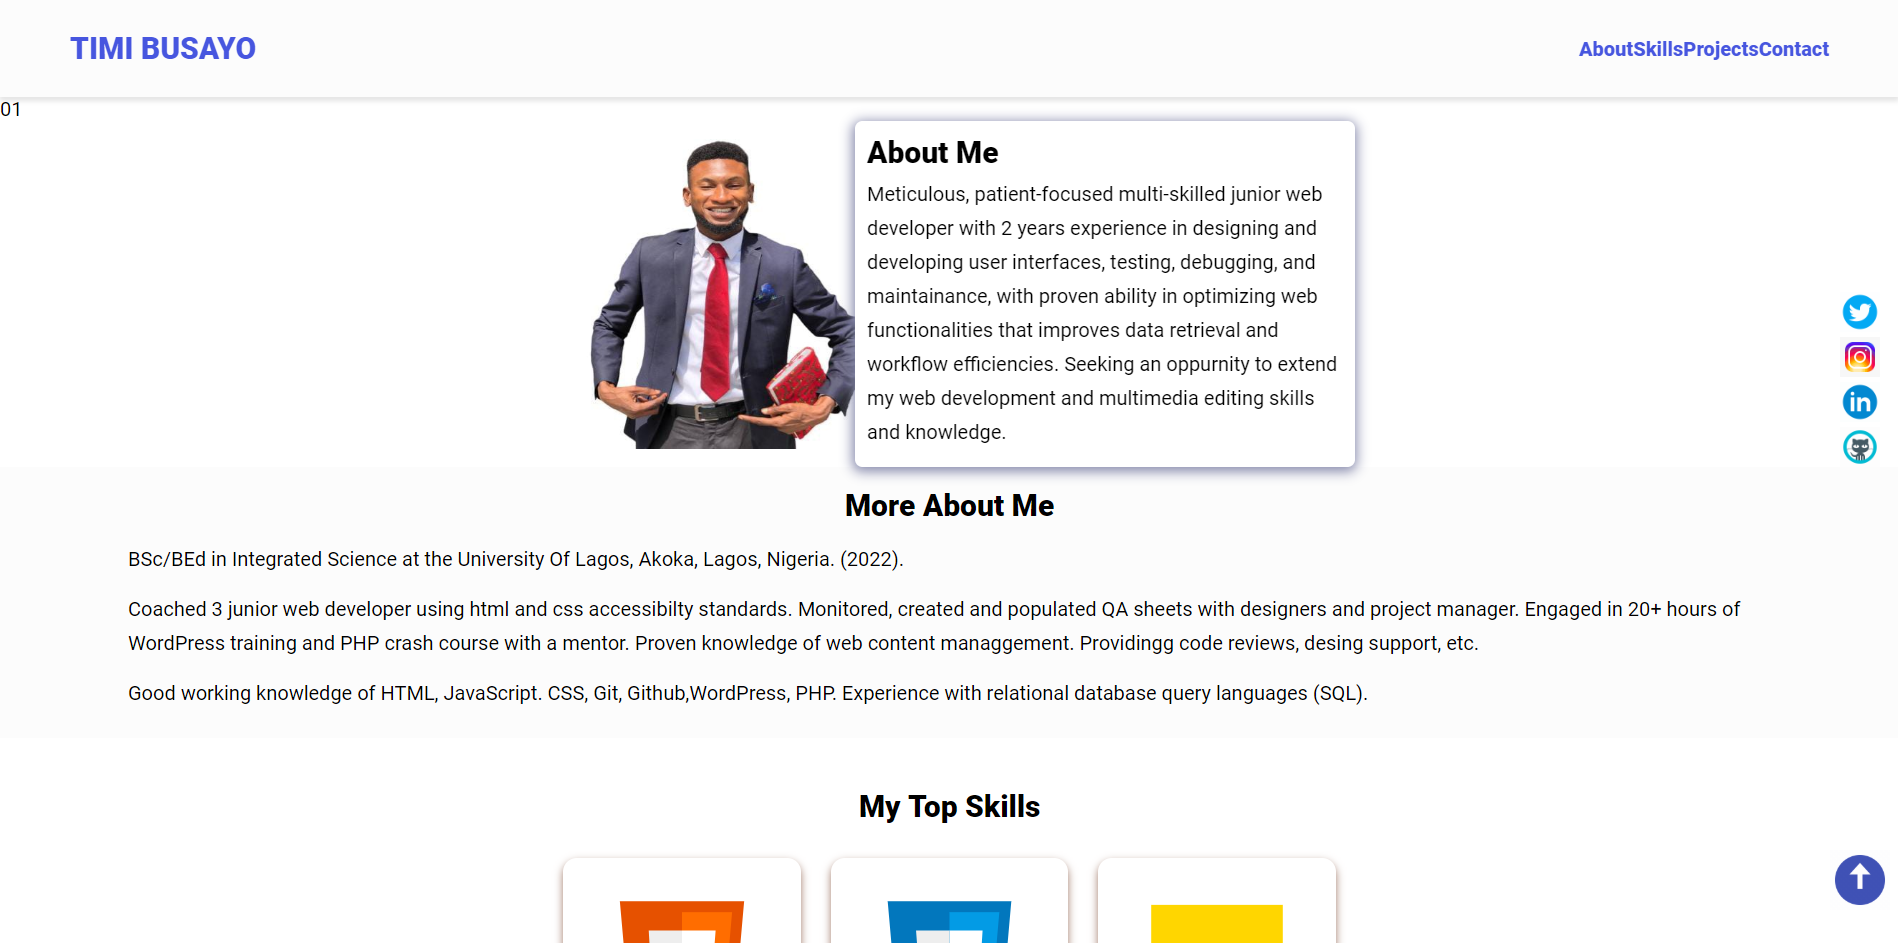
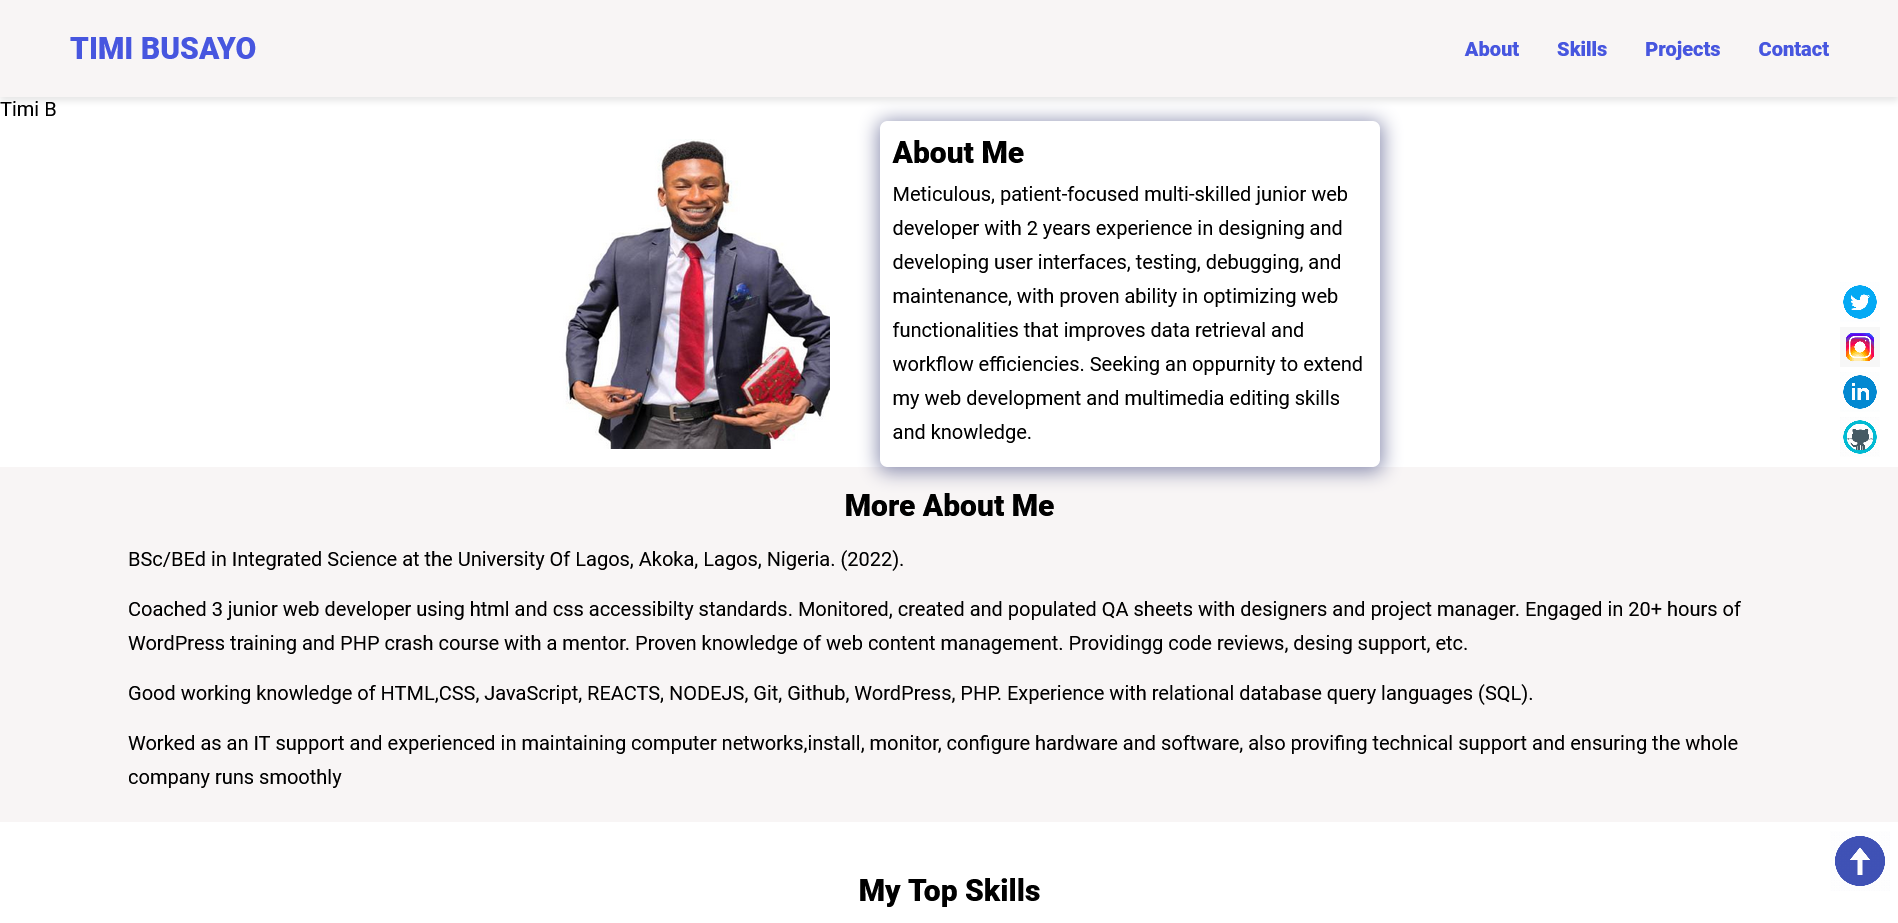
initial commit

diff --git a/index.html b/index.html
@@ -5,10 +5,9 @@
     <meta http-equiv="X-UA-Compatible" content="IE=edge" />
     <meta name="viewport" content="width=device-width, initial-scale=1.0" />
 
-    <!--CSS Styles -->
     <link rel="stylesheet" href="assets/css/styles.css" />
 
-    <!-- Favicons -->
+   
     <link
       rel="apple-touch-icon"
       sizes="180x180"
@@ -21,7 +20,7 @@
       href="assets/icons/timi.jpg"
     />
 
-    <!-- Animate CSS CDN -->
+    
     <link
       rel="stylesheet"
       href="https://cdnjs.cloudflare.com/ajax/libs/animate.css/4.1.1/animate.min.css"
@@ -41,13 +40,13 @@
       </ul>
       <button class="burger-menu" id="burger-menu">
         <ion-icon class="bars" name="menu-outline"></ion-icon>
-        <!-- <ion-icon class="times" name="close-outline"></ion-icon> -->
+        
       </button>
     </nav>
     
-    <p> 01 </p>
+    <p> Timi B </p>
 
-    <!-- Hero Section -->
+  
     <section class="hero" id="about">
       <img
         src="assets/images/timi.img(2).jpg"
@@ -73,7 +72,10 @@
         Coached 3 junior web developer using html and css accessibilty standards. Monitored, created and populated QA sheets with designers and project manager. Engaged in 20+ hours of WordPress training and PHP crash course with a mentor. Proven knowledge of web content management. Providingg code reviews, desing support, etc.
       </p>
       <p>
-        Good working knowledge of HTML, JavaScript. CSS, Git, Github,WordPress, PHP. Experience with relational database query languages (SQL). 
+        Good working knowledge of HTML,CSS, JavaScript, REACTS, NODEJS, Git, Github, WordPress, PHP. Experience with relational database query languages (SQL). 
+      </p>
+      <p>
+        Worked as an IT support and experienced in maintaining computer networks,install, monitor, configure hardware and software, also provifing technical support and ensuring the whole company runs smoothly
       </p>
     </section>
 
@@ -122,6 +124,18 @@
             loading="lazy"
             class="icon icon-card"
           />
+          <img
+            src="assets/icons/icons8-github.gif"
+            alt=""
+            loading="lazy"
+            class="icon icon-card"
+            />
+            <img
+            src="dir/php.logo.svg"
+            alt=""
+            loading="lazy"
+            class="icon icon-card"
+            />
         </div>
       </div>
     </section>
@@ -137,37 +151,37 @@
             loading="lazy"
             class="project-pic"
           />
-          <h3 class="project-title">Interior Decor</h3>
+          <h3 class="project-title">Interior Decoration WP Project</h3>
           <p class="project-details">
             Things to know about interior decoration
           </p>
-          <a href="https://easyhomesinterirors.wordpress.com" target="_blank" class="project-link">Check it Out</a>
+          <a href="https://easyhomesinterirors.wordpress.com/" target="_blank" class="project-link">Check it Out</a>
         </div>
         <div class="project-container project-card">
           <img
-            src="assets/images/EasyHome 2.png"
+            src="dir/perioudic-table.png"
             alt="easy-bio"
             loading="lazy"
             class="project-pic"
           />
-          <h3 class="project-title">Business Page</h3>
+          <h3 class="project-title">Scienctific Periodic-Table Project</h3>
           <p class="project-details">
-            \Do you want to know more about what we do? Check this!
+            Elements in their periods, groups and their chemical properties
           </p>
-          <a href="https://easyhomesinterirors.wordpress.com" target="_blank" class="project-link">Check it Out</a>
+          <a href="https://github.com/TimiBee/Periodic-Table" target="_blank" class="project-link">Check it Out</a>
         </div>
         <div class="project-container project-card">
           <img
-            src="assets/images/EasyHome 3.png"
+            src="dir/Twitter-clone.png"
             alt="greeny-earth"
             loading="lazy"
             class="project-pic"
           />
-          <h3 class="project-title">Display Project</h3>
+          <h3 class="project-title">Twitter-Clone Project</h3>
           <p class="project-details">
-            Our work with pictures
+            Enables user to sign up, login, follow and unfollow users
           </p>
-          <a href="https://easyhomesinterirors.wordpress.com" target="_blank" class="project-link">Check it Out</a>
+          <a href="https://github.com/TimiBee/https---github.com-TimiBee-twitter-clone" target="_blank" class="project-link">Check it Out</a>
         </div>
       </div>
     </section>

diff --git a/assets/css/styles.css b/assets/css/styles.css
@@ -6,7 +6,7 @@
   --normal-font: 400;
   --bold-font: 700;
   --bolder-font: 900;
-  --bg-color: #fcfcfc;
+  --bg-color: #f8f5f5;
   --primary-color: #4756df;
   --secondary-color: #ff7235;
   --primary-shadow: #8b8eaf;
@@ -263,7 +263,7 @@ nav ul li {
   width: 100%;
   padding: 10px;
   margin: 10px 0;
-  background-color: #fff;
+  background-color: #f6eded;
   border: 2px solid var(--primary-color);
   border-radius: 5px;
   font-size: 1rem;
